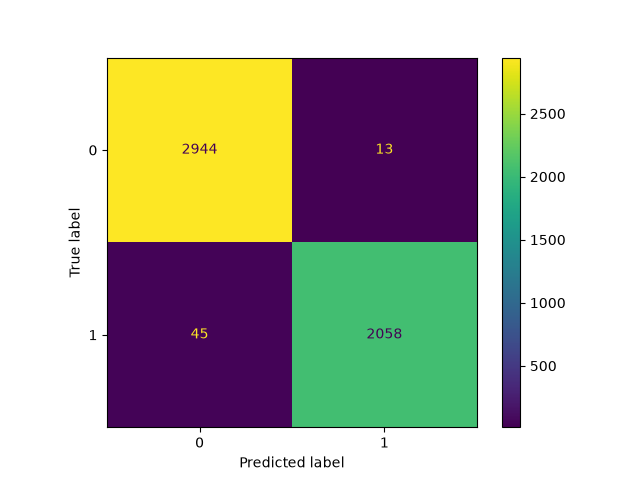
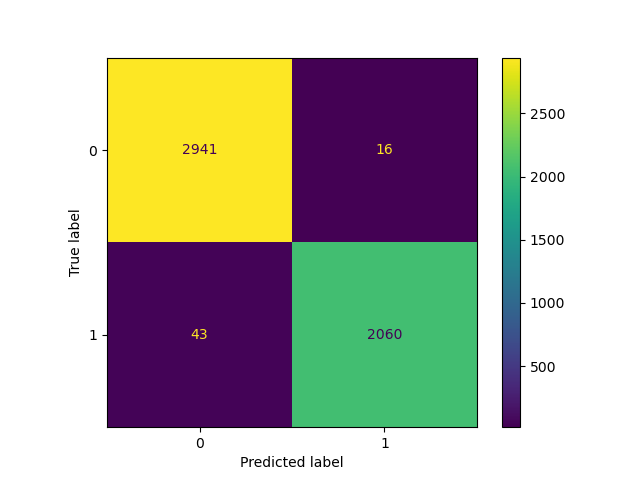
make better ui- adding number of email and add category as well

diff --git a/email_web_app.py b/email_web_app.py
@@ -31,8 +31,8 @@ with st.sidebar:
     inbox_type = "primary" if st.session_state.current_tab == "Inbox" else "secondary"
     spam_type = "primary" if st.session_state.current_tab == "Spam" else "secondary"
 
-    st.button("Inbox", use_container_width=True, type=inbox_type, on_click=switch_tab, args=("Inbox",))
-    st.button("Spam", use_container_width=True, type=spam_type, on_click=switch_tab, args=("Spam",))
+    st.button(f"Inbox ({len(st.session_state.inbox)})", use_container_width=True, type=inbox_type, on_click=switch_tab, args=("Inbox",))
+    st.button(f"Spam ({len(st.session_state.spam)})", use_container_width=True, type=spam_type, on_click=switch_tab, args=("Spam",))
 
 # Header and button(s)
 col1, col2, col3 = st.columns([4, 1, 1])
@@ -136,8 +136,7 @@ if st.session_state.current_tab == "Inbox":
         st.write("Empty.")
     else:
         for i, email in enumerate(reversed(st.session_state.inbox)):
-            with st.expander(f"Subject: {email['subject']}"):
-                st.write(f"**Classification:** {email['classification']}")
+            with st.expander(f"{email['subject']} | {email['classification']}"):
                 st.write(f"**Message:** {email['text']}")
 
 elif st.session_state.current_tab == "Spam":
@@ -146,6 +145,5 @@ elif st.session_state.current_tab == "Spam":
         st.write("Empty.")
     else:
         for i, email in enumerate(reversed(st.session_state.spam)):
-            with st.expander(f"Subject: {email['subject']}"):
-                st.write(f"**Classification:** {email['classification']}")
+            with st.expander(f"{email['subject']} | {email['classification']}"):
                 st.write(f"**Message:** {email['text']}")
